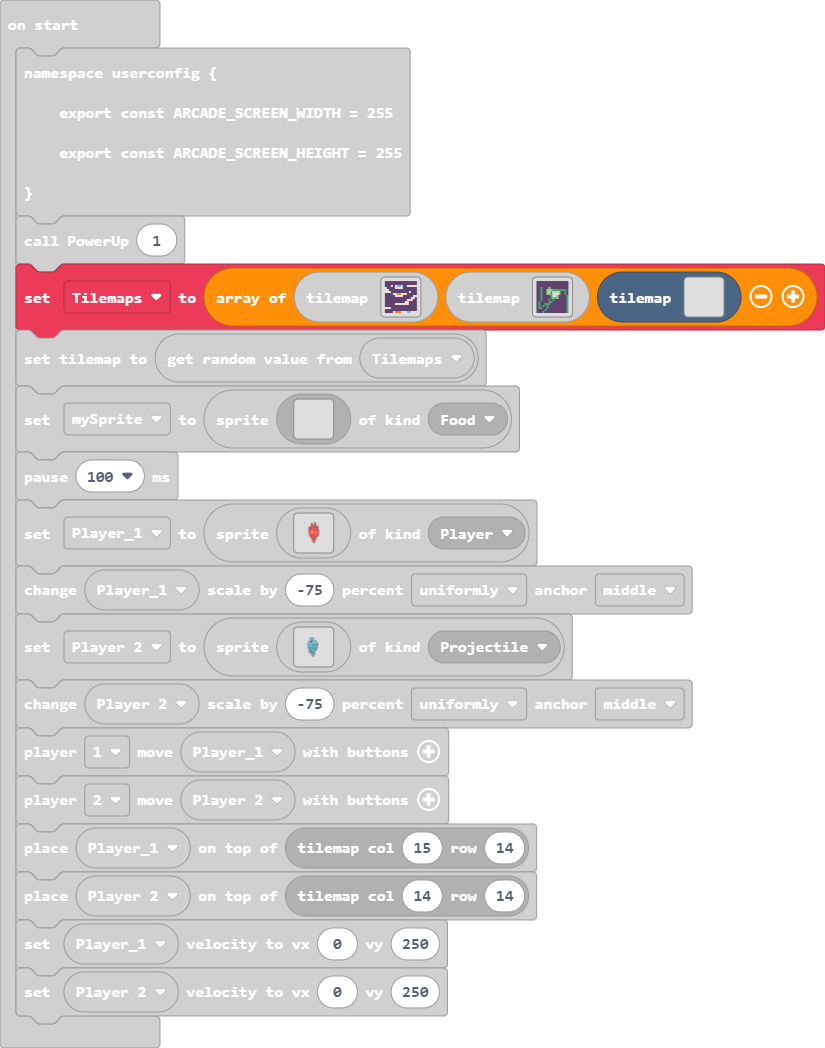
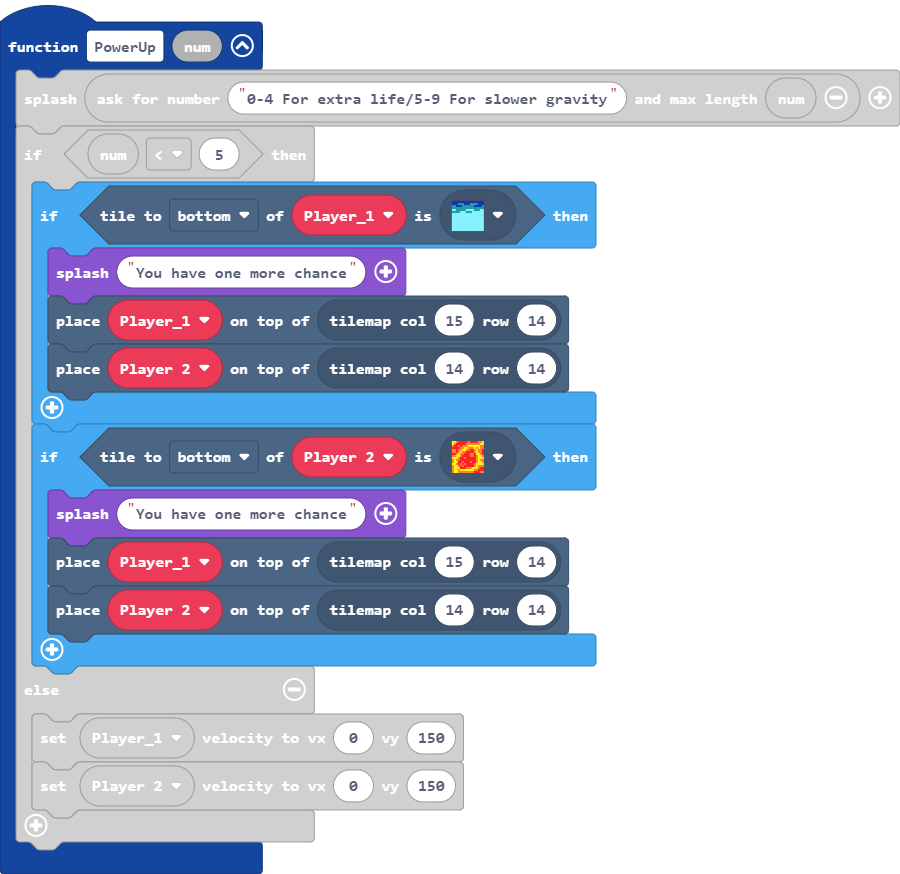
Update main.blocks, main.ts

diff --git a/main.ts b/main.ts
@@ -1,7 +1,16 @@
 function PowerUp (num: number) {
     game.splash(game.askForNumber("0-4 For extra life/5-9 For slower gravity", num))
     if (num < 5) {
-    	
+        if (Player_1.tileKindAt(TileDirection.Bottom, sprites.dungeon.hazardWater)) {
+            game.splash("You have one more chance")
+            tiles.placeOnTile(Player_1, tiles.getTileLocation(15, 14))
+            tiles.placeOnTile(Player_2, tiles.getTileLocation(14, 14))
+        }
+        if (Player_2.tileKindAt(TileDirection.Bottom, sprites.dungeon.hazardLava0)) {
+            game.splash("You have one more chance")
+            tiles.placeOnTile(Player_1, tiles.getTileLocation(15, 14))
+            tiles.placeOnTile(Player_2, tiles.getTileLocation(14, 14))
+        }
     } else {
         Player_1.setVelocity(0, 150)
         Player_2.setVelocity(0, 150)
